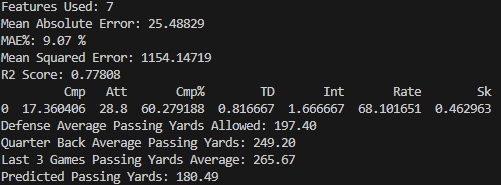
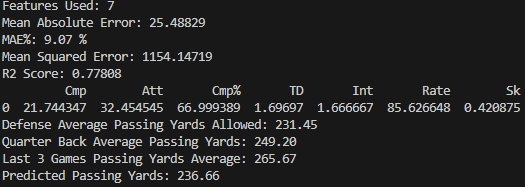
fix to sched

diff --git a/projects/MLBetting/projectPage.html b/projects/MLBetting/projectPage.html
@@ -259,10 +259,10 @@
                                     </tr>
                                     <tr>
                                         <td>Jared Goff</td>
-                                        <td>CHI @ DET</td>
-                                        <td>28 NOV 2024</td>
+                                        <td>DET @ IND</td>
+                                        <td>24 NOV 2024</td>
                                         <td><a href="" target="_blank"></a>TBD</td>
-                                        <td><a href="./images/model pred/week 12/goff.png" target="_blank">180.49 yards</a></td>
+                                        <td><a href="./images/model pred/week 12/goff.png" target="_blank">236.66 yards</a></td>
                                         <td>TBD</td>
                                         <td class="">TBD</td>
                                     </tr>
@@ -304,10 +304,10 @@
                                     </tr>
                                     <tr>
                                         <td>Patrick Mahomes </td>
-                                        <td>LV @ KC</td>
-                                        <td>29 NOV 2024</td>
+                                        <td>KC @ CAR</td>
+                                        <td>24 NOV 2024</td>
                                         <td><a href="" target="_blank"></a>TBD</td>
-                                        <td><a href="./images/model pred/week 12/mahomes.png" target="_blank">267.96 yards</a></td>
+                                        <td><a href="./images/model pred/week 12/mahomes.png" target="_blank">279.35 yards</a></td>
                                         <td>TBD</td>
                                         <td class="">TBD</td>
                                     </tr>
